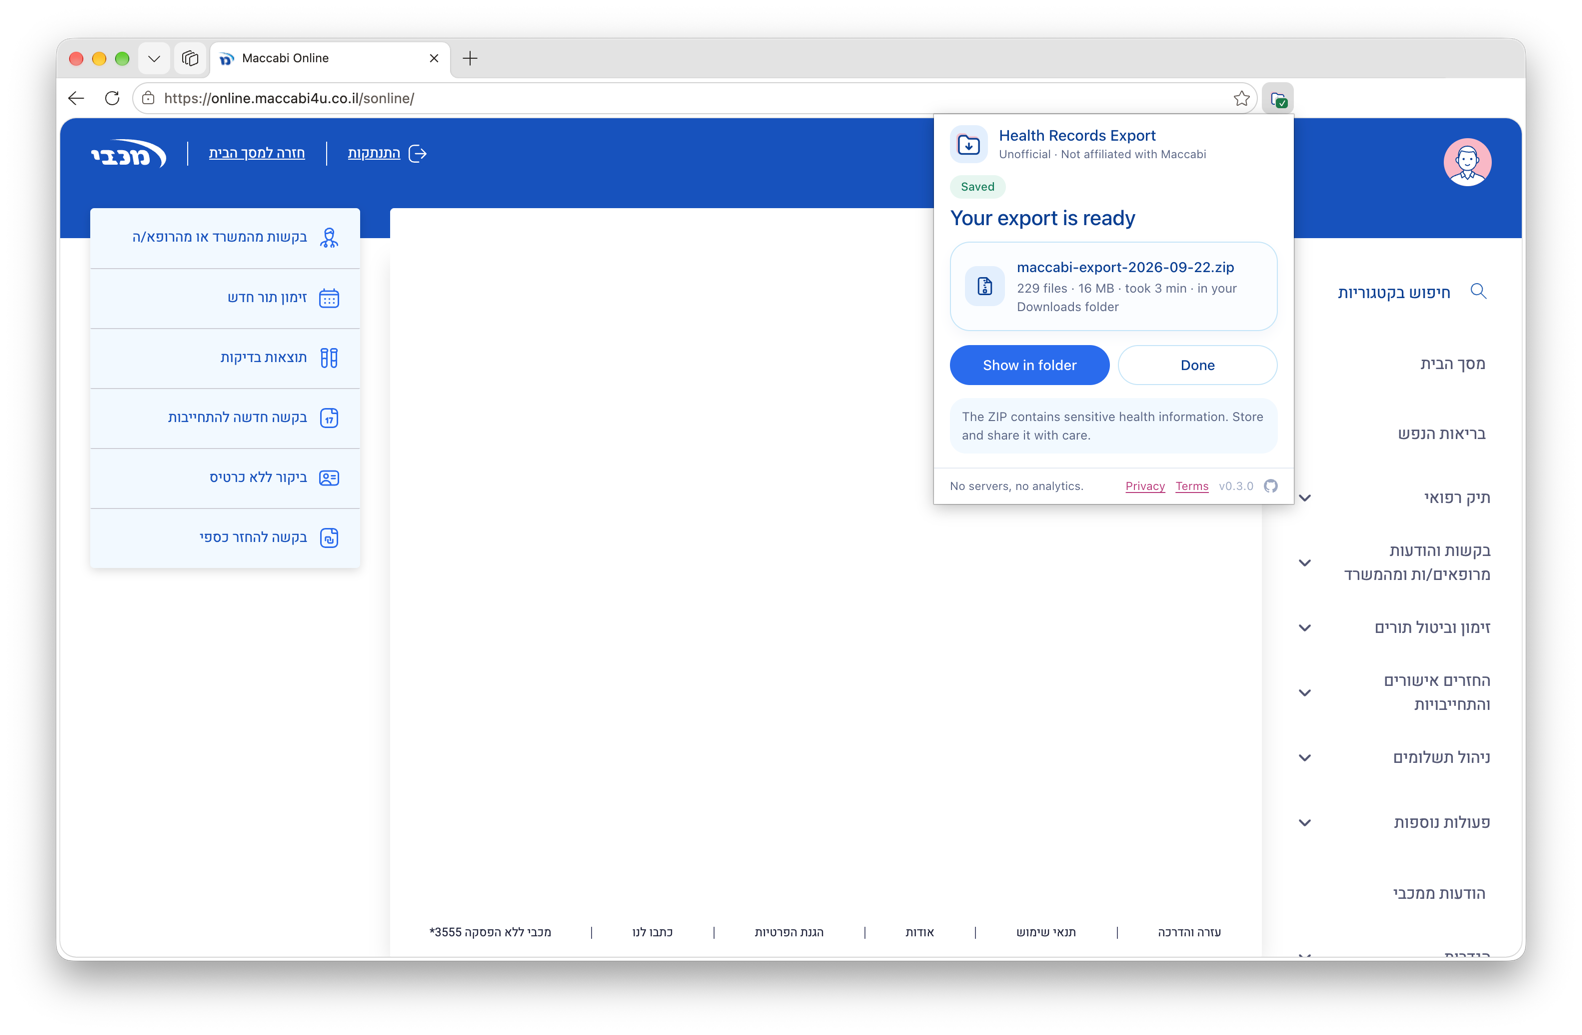
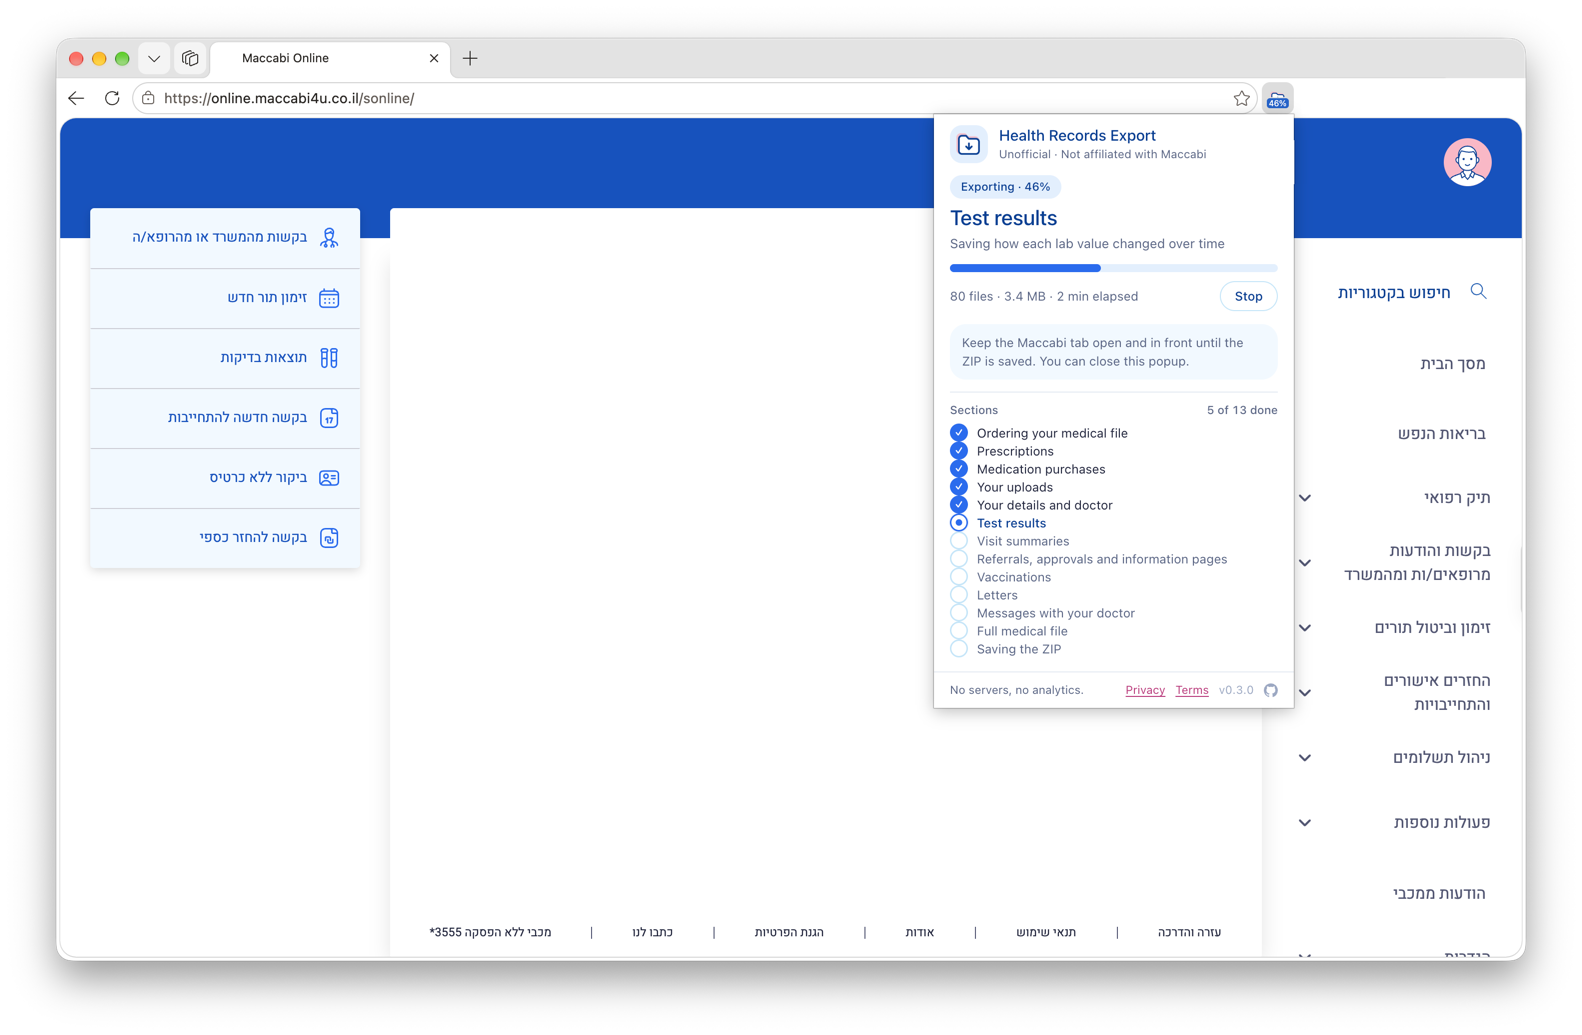
Take the README's screenshot from a window, mid-export
The same moment as before it was the saved one - the export at 46 per cent,
the section list half ticked - but caught with the browser's own window and
tab strip around it, which places it as a window on a desktop rather than a
cropped page, and with the progress badge on the toolbar icon in shot, which
is the part of the extension someone leaves visible while it runs.

Maccabi's header had not drawn when it was taken, so the site's wordmark isn't
in it either. Checked as before: no name, no member id, no record content, an
empty content area. Halved to 1582px, sRGB, metadata chunks stripped.

diff --git a/README.md b/README.md
@@ -7,7 +7,7 @@ to your computer as one ZIP file: every PDF the site offers, plus the site's own
 > Unofficial. Not affiliated with, endorsed by or sponsored by Maccabi Healthcare Services.
 
 <p align="center">
-  <img src="docs/screenshot.png" alt="The extension's popup on Maccabi Online, with the finished export saved to the Downloads folder" width="720">
+  <img src="docs/screenshot.png" alt="The extension's popup on Maccabi Online, partway through an export, with the progress badge on the toolbar icon" width="720">
 </p>
 
 <p align="center">
